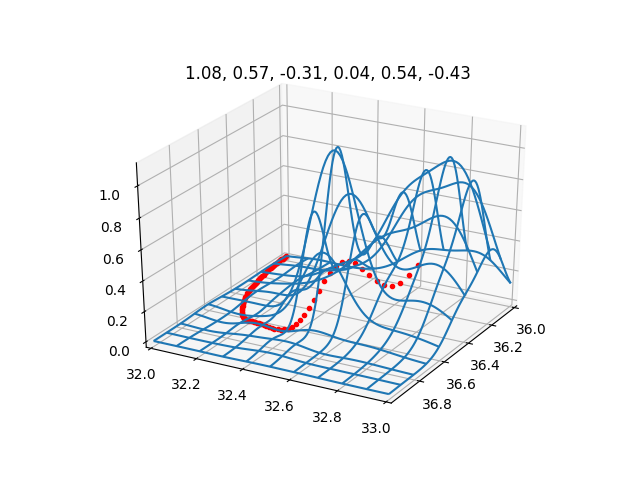
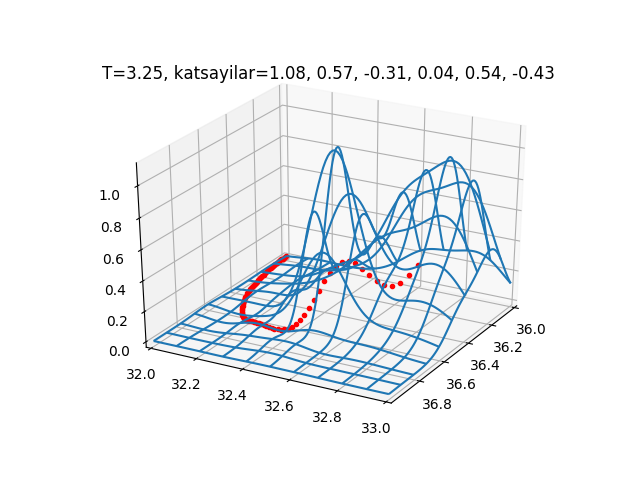
-

Changed region(s): [[0.1562, 0.125, 0.7812, 0.1875], [0.8125, 0.125, 0.875, 0.1875]]

diff --git a/calc_multi/calc_multi_40_elev/pathsauto.py b/calc_multi/calc_multi_40_elev/pathsauto.py
@@ -1,4 +1,3 @@
-import pandas as pd
 import numpy as np
 from mpl_toolkits.mplot3d import Axes3D
 import matplotlib.pyplot as plt
@@ -71,6 +70,7 @@ def intval(a1,a2,a3,b1,b2,b3):
    z = [f_interp(anp.array([[xx,yy]]))[0][0] for xx,yy in zip(x,y)]
    res = z * sq
    T = trapz(res, 1.0/len(t))
+   if ('ArrayBox' not in str(type(T))): return float(T)
    return T._value
 
 
@@ -92,8 +92,8 @@ for i in range(3):
     oldx = newx
     a1,a2,a3,b1,b2,b3 = newx
 
-    print (a1,a2,a3)
-    
+    T = intval(a1,a2,a3,b1,b2,b3)
+        
     a4 = ex - a0 - (a1+a2+a3)
     b4 = ey - b0 - (b1+b2+b3)
 
@@ -111,7 +111,7 @@ for i in range(3):
     y = b0 + b1*t + b2*t**2 + b3*t**3 + b4*t**4
     z = [f_interp(anp.array([[xx,yy]]))[0][0] for xx,yy in zip(x,y)]
     ax.plot3D(x, y, z,'r.')
-    plt.title(", ".join([str(np.round(xcurr,2)) for xcurr in newx]))
+    plt.title('T=%0.2f, katsayilar=' % T +', '.join([str(np.round(xcurr,2)) for xcurr in newx]))
     plt.savefig('linear_app88rbf_08-%d.png' % i)
 
     grad_1 = [intval_grad_a1(a1,a2,a3,b1,b2,b3),\
